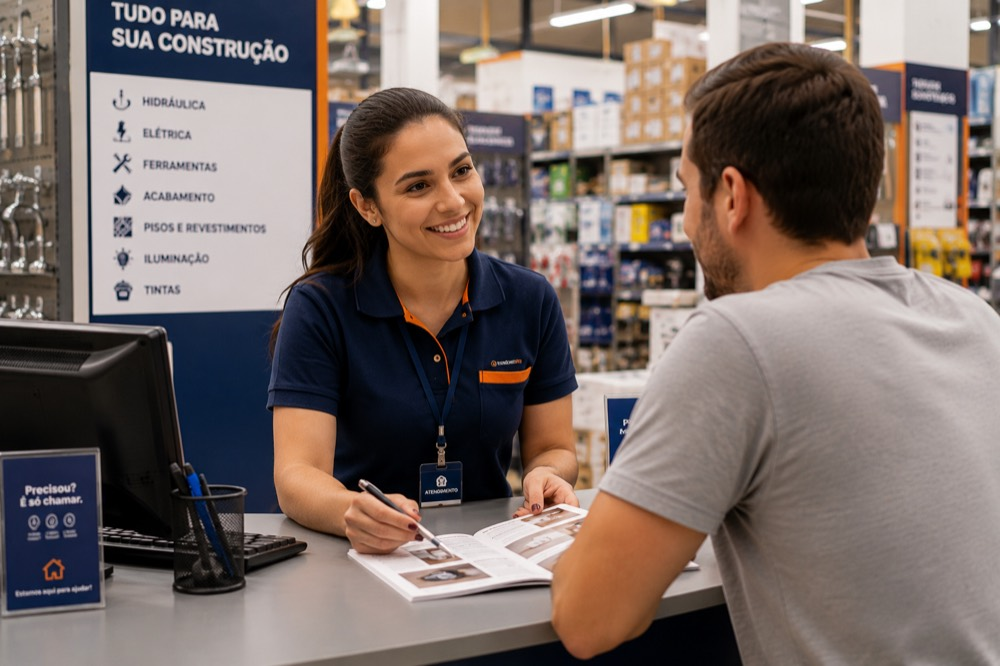
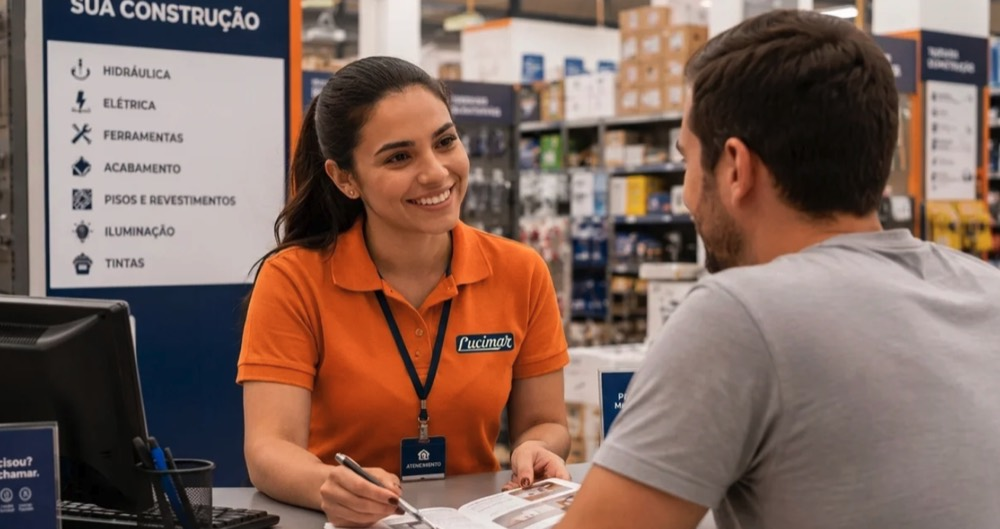
Category cards: text above image; new Ferragens & Atendimento photos; remove floating WhatsApp
- Category cards now show text above the image
- Service 1 (Atendimento) uses new counter screenshot
- Ferragens (cat-06) updated to new image
- Removed floating WhatsApp button

diff --git a/index.html b/index.html
@@ -281,7 +281,6 @@
       max-width: 440px;
     }
     .cat-visual {
-      order: -1;
       width: 100%;
       height: 380px;
       border-radius: 20px;
@@ -646,7 +645,7 @@
       .cat-num { font-size: 13px; }
       .cat-name { font-size: 22px; margin-top: 10px; line-height: 1.15; }
       .cat-desc { font-size: 14.5px; margin-top: 10px; max-width: none; }
-      .cat-visual { order: -1; width: 100%; height: 210px; font-size: 64px; border-radius: 16px; }
+      .cat-visual { width: 100%; height: 210px; font-size: 64px; border-radius: 16px; }
 
       .about { padding: 44px 20px; }
       .about-grid { grid-template-columns: 1fr; gap: 24px; }
@@ -990,10 +989,6 @@
     <div class="footer-copy">© 2026 Lucimar Materiais de Construção · Mongaguá-SP</div>
   </footer>
 
-  <!-- ===== FLOATING WHATSAPP BUTTON ===== -->
-  <a href="https://wa.me/5513997585780" target="_blank" rel="noopener" class="whatsapp-float" aria-label="Falar no WhatsApp">
-    <svg viewBox="0 0 24 24" aria-hidden="true"><path d="M.057 24l1.687-6.163a11.867 11.867 0 0 1-1.587-5.946C.16 5.335 5.495 0 12.05 0a11.817 11.817 0 0 1 8.413 3.488 11.824 11.824 0 0 1 3.48 8.414c-.003 6.557-5.338 11.892-11.893 11.892a11.9 11.9 0 0 1-5.688-1.448L.057 24zm6.597-3.807c1.676.995 3.276 1.591 5.392 1.592 5.448 0 9.886-4.434 9.889-9.885.002-5.462-4.415-9.89-9.881-9.892-5.452 0-9.887 4.434-9.889 9.884a9.86 9.86 0 0 0 1.512 5.26l-.999 3.648 3.736-.979.24.172zm11.387-5.464c-.074-.124-.272-.198-.57-.347-.297-.149-1.758-.868-2.031-.967-.272-.099-.47-.149-.669.149-.198.297-.768.967-.941 1.165-.173.198-.347.223-.644.074-.297-.149-1.255-.462-2.39-1.475-.883-.788-1.48-1.761-1.653-2.059-.173-.297-.018-.458.13-.606.134-.133.297-.347.446-.521.151-.172.2-.296.3-.495.099-.198.05-.372-.025-.521-.074-.148-.669-1.611-.916-2.207-.242-.579-.487-.501-.669-.51l-.57-.01c-.198 0-.52.074-.792.372-.272.297-1.04 1.016-1.04 2.479 0 1.462 1.065 2.875 1.213 3.074.149.198 2.096 3.2 5.077 4.487.709.306 1.262.489 1.694.626.712.226 1.36.194 1.872.118.571-.085 1.758-.719 2.006-1.413.247-.694.247-1.289.173-1.413z"/></svg>
-  </a>
 
   <script>
     // ===== HAMBURGER MENU =====